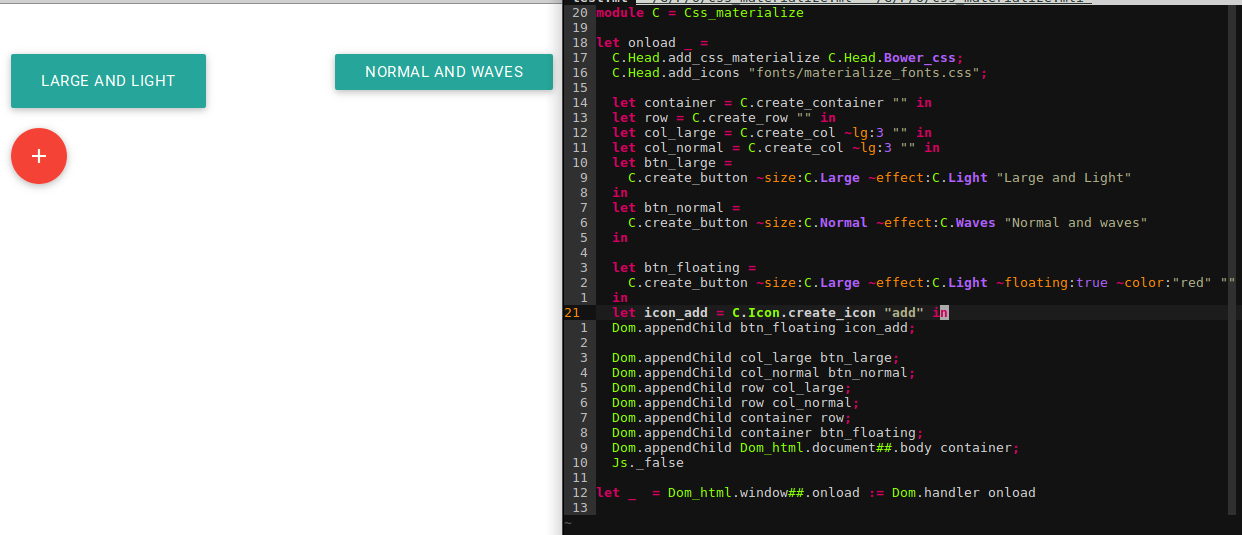
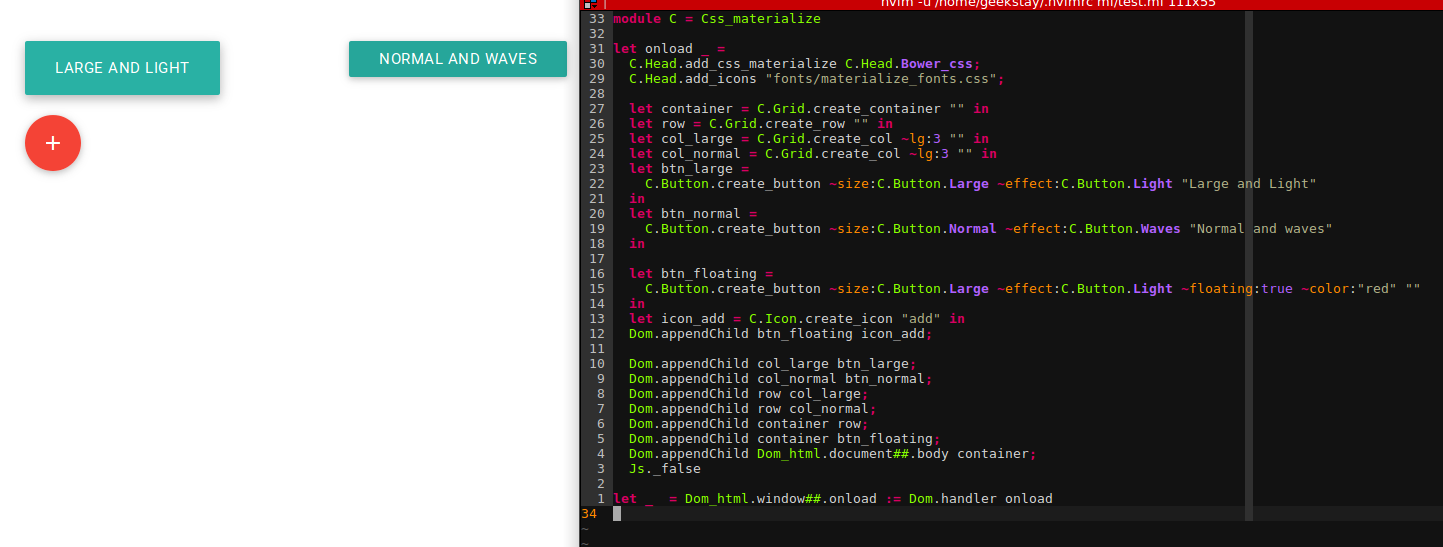
Submodule for Button and Grid

Changed region(s): [[0.0, 0.0, 1.0, 1.0], [0.0, 0.0598, 0.1836, 0.3589], [0.8567, 0.5981, 0.8873, 0.957]]

diff --git a/README.md b/README.md
@@ -2,10 +2,37 @@
 
 ![screenshot.png](res/screenshot.png)
 
-Create HTML elements in OCaml using Material Design (MaterializeCSS)
+Create HTML elements in OCaml using Material Design with [MaterializeCSS](http://materializecss.com/).
 
 ## How to install?
+
+ocaml-materializecss depends on
+[jsoo_lib](https://github.com/dannywillems/jsoo-lib), a set of functions to use
+js_of_ocaml easier. You need to pin the opam repository:
+
+```
+opam pin add jsoo_lib https://github.com/dannywillems/jsoo-lib.git
+```
 
 ```
 opam pin add ocaml-materializecss https://github.com/dannywillems/ocaml-materializecss.git
 ```
+
+## How to use it?
+
+All functions is in ```Css_materiliaze``` module. This main module contains
+submodules depending on the purpose of their content. For example, the
+submodule ```Css_materialize.Head``` contains functions to add automatically the
+css and javascript files. If you use [bower](http://bower.io/), you can use
+```
+Css_materiliaze.Head.add_css_link Css_materialize.Head.Bower_css
+```
+to add the css in the head tag. Else, you can pass the entire path to the files.
+
+### Head
+
+### Icon
+
+### Grid
+
+### Button
